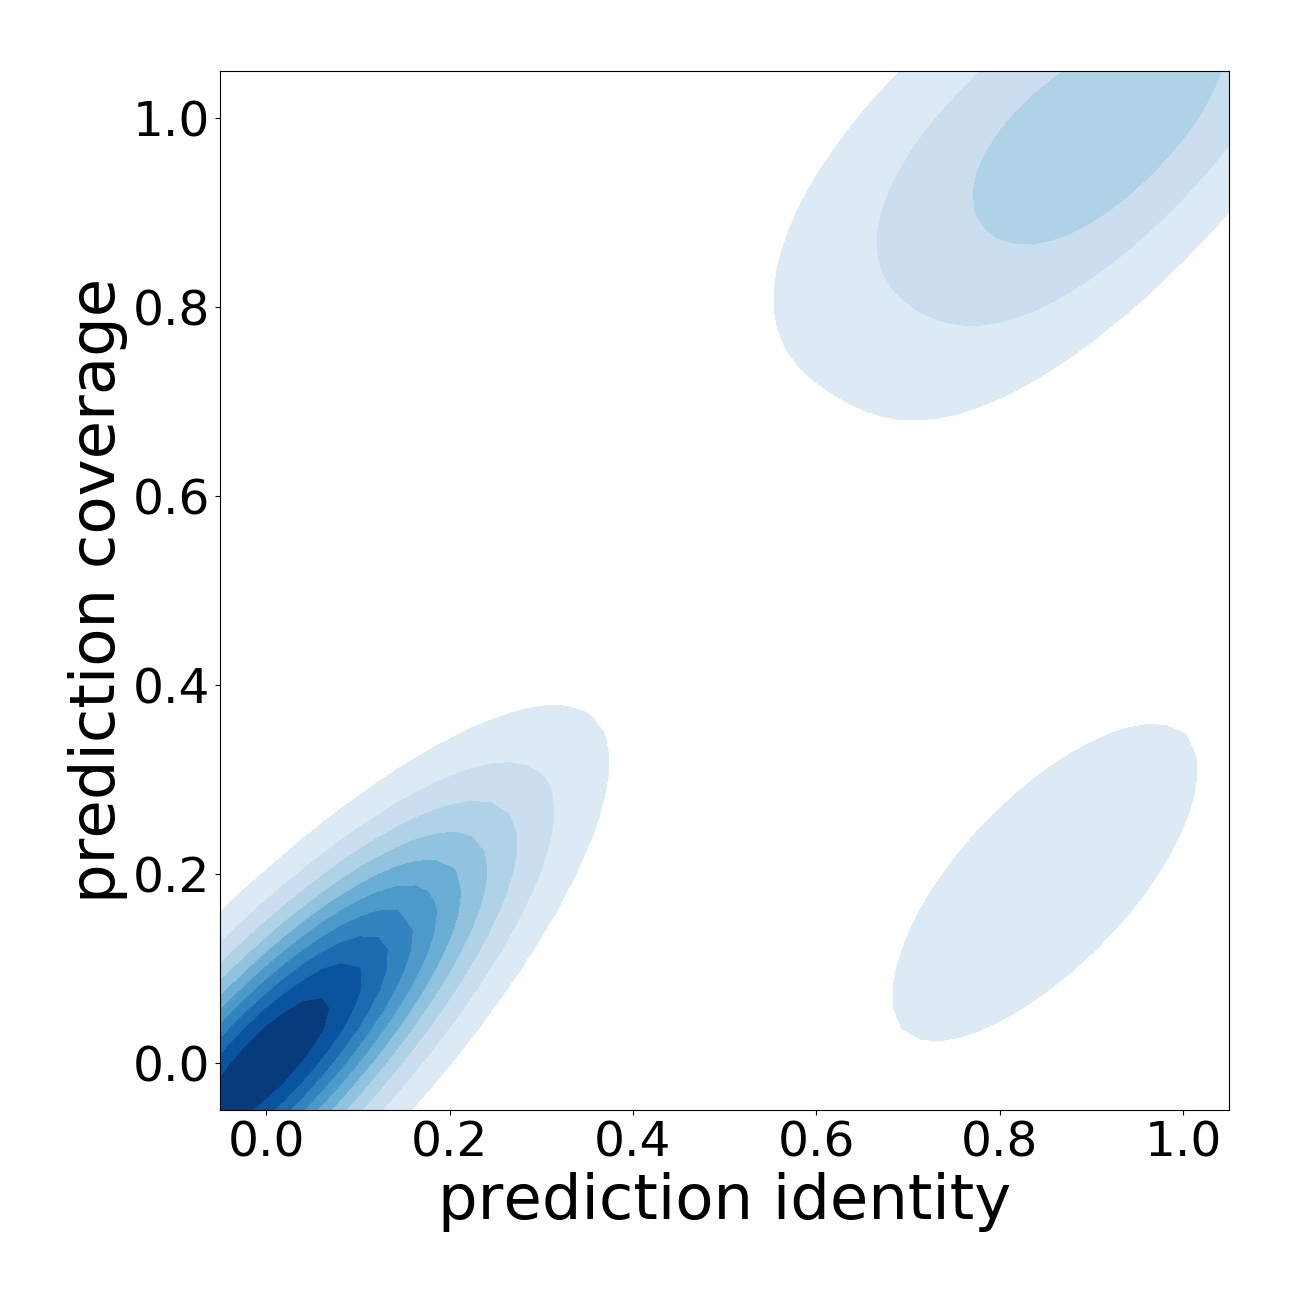
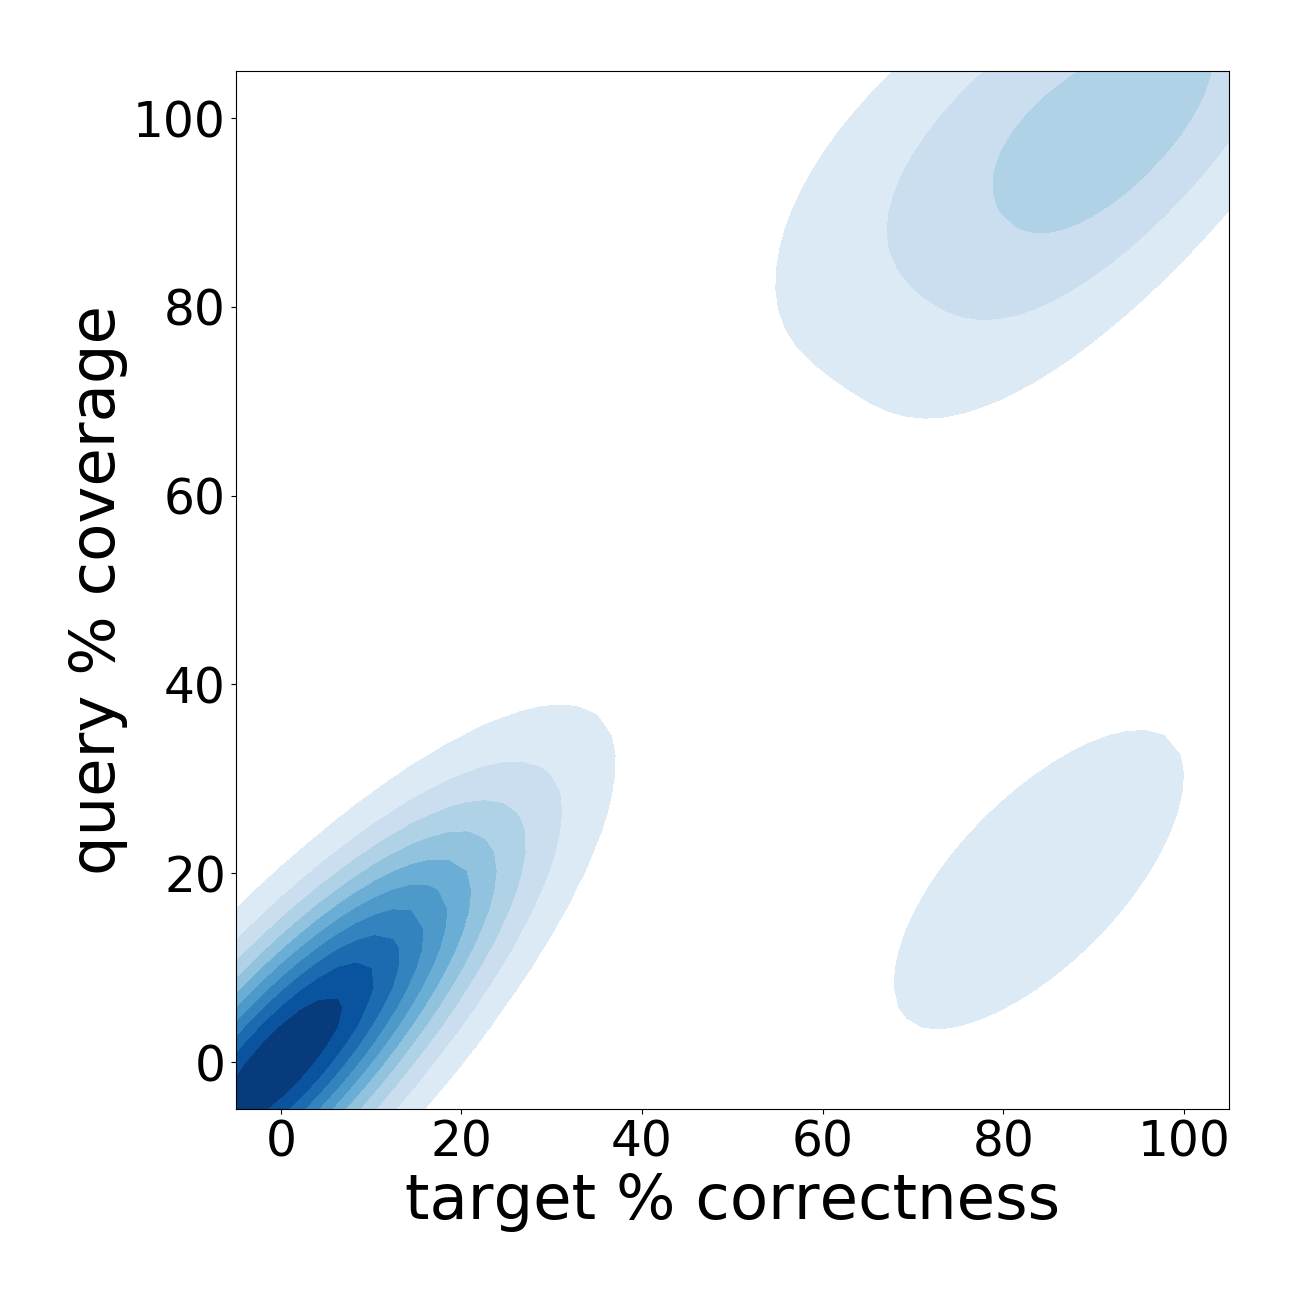
Revise figures

diff --git a/src/app/helper_scripts/data_crunching/wrangle_csv.py b/src/app/helper_scripts/data_crunching/wrangle_csv.py
@@ -5,6 +5,8 @@ import numpy as np
 import pandas as pd
 import seaborn as sns
 
+import utils.directory_utils as utils
+
 correctness_threshold = 0.7
 distance_threshold = 20
 prediction_length = 750
@@ -17,7 +19,7 @@ else:
     base_path = "/home/echen/Desktop/Projects/Sealer_NN/src/app/helper_scripts/data_crunching/"
 
 def evaluate_gap(df, predict_from_left):
-    gap_coverage = []
+    query_coverage = []
     is_pass = []
     for i in range(len(df)):
         row = df.loc[i]
@@ -27,7 +29,7 @@ def evaluate_gap(df, predict_from_left):
         gap_start = row["query_start_gap"]
         gap_end = row["query_end_gap"]
         if np.isnan(gap_start) or np.isnan(gap_end):
-            gap_coverage.append(0)
+            query_coverage.append(0)
             is_pass.append(0)
             continue
 
@@ -44,19 +46,23 @@ def evaluate_gap(df, predict_from_left):
         coverage = prediction_bases/prediction_length_considered
 
         preliminary_pass = 1 if row.flank_correctness >= correctness_threshold else 0
-        gap_coverage.append(coverage)
+        query_coverage.append(coverage)
         is_pass.append(preliminary_pass)
-    coverage = pd.Series(data=np.array(gap_coverage))
+    coverage = pd.Series(data=np.array(query_coverage))
     gap_pass = pd.Series(data=np.array(is_pass))
     return coverage, gap_pass
 
 def transform_dataframe(df, predict_from_left):
     df['total_percent_id_gap'] = (df.matches_gap/df.total_length_gap).fillna(0)
+    df['target_gap_coverage'] = (df.target_alignment_length_gap/df.total_length_gap).fillna(0)
+    df['target_gap_correctness'] = (df.total_percent_id_gap * df.target_gap_coverage).fillna(0)
+
     df['total_percent_id_flank'] = (df.matches_flank/df.total_length_flank).fillna(0)
     df['flank_coverage'] = (df.target_alignment_length_flank/df.target_length_flank).fillna(0)
     df['flank_correctness'] = df.total_percent_id_flank * df.flank_coverage
     gap_coverage, gap_pass = evaluate_gap(df, predict_from_left)
-    df['gap_coverage'] = gap_coverage.fillna(0)
+
+    df['query_gap_coverage'] = gap_coverage.fillna(0)
     df['gap_pass'] = gap_pass
 
 def plot_comparison_scatter(data, file_path):
@@ -71,12 +77,38 @@ def plot_comparison_scatter(data, file_path):
 
     plt.figure(figsize=figure_dimensions)
 
-    points = plt.scatter(data["total_percent_id_gap"], data["total_percent_id"], s=200)
+    points = plt.scatter(data["target_gap_correctness"] * 100, data["target_correctness"] * 100, s=200)
 
-    plt.xlim((-0.05, 1.05))
-    plt.ylim((-0.05, 1.05))
-    plt.xlabel('GapPredict identity')
-    plt.ylabel('Sealer identity')
+    plt.xlim((-5, 105))
+    plt.ylim((-5, 105))
+    plt.xlabel('GapPredict % correctness')
+    plt.ylabel('Sealer % correctness')
+
+    plt.tight_layout()
+    fig = plt.savefig(file_path)
+    plt.close(fig)
+
+def plot_comparison_contour(data, file_path):
+    plt.rc('xtick', labelsize=secondary_text_font_size)
+    plt.rc('ytick', labelsize=secondary_text_font_size)
+    font = {
+        'size': primary_text_font_size
+    }
+    plt.rc('font', **font)
+
+    figure_dimensions=(13, 13)
+
+    plt.figure(figsize=figure_dimensions)
+
+    x = data["target_gap_correctness"] * 100
+    y = data["target_correctness"] * 100
+
+    sns.kdeplot(x, y, cmap="Blues", shade=True, shade_lowest=False)
+
+    plt.xlim((-5, 105))
+    plt.ylim((-5, 105))
+    plt.xlabel('GapPredict % correctness')
+    plt.ylabel('Sealer % correctness')
 
     plt.tight_layout()
     fig = plt.savefig(file_path)
@@ -95,15 +127,16 @@ def plot_scatter(data, file_path):
 
     plt.figure(figsize=figure_dimensions)
 
-    points = plt.scatter(data["total_percent_id_gap"], data["gap_coverage"], c=data["log-sum-probability"], alpha=0.8, s=200, cmap="Spectral")
+    points = plt.scatter(data["target_gap_correctness"]*100, data["query_gap_coverage"]*100, c=data["log-sum-probability"], alpha=0.8, s=200, cmap="Spectral")
     cbar = plt.colorbar(points, fraction=0.046, pad=0.04)
     cbar.ax.tick_params(labelsize=cbar_text_font_size)
+    cbar.set_label("log-sum probability")
 
     plt.clim(0, -750)
-    plt.xlim((-0.05, 1.05))
-    plt.ylim((-0.05, 1.05))
-    plt.xlabel('prediction identity')
-    plt.ylabel('prediction coverage')
+    plt.xlim((-5, 105))
+    plt.ylim((-5, 105))
+    plt.xlabel('target % correctness')
+    plt.ylabel('query % coverage')
 
     plt.tight_layout()
     fig = plt.savefig(file_path)
@@ -121,47 +154,27 @@ def plot_contour(data, file_path):
 
     plt.figure(figsize=figure_dimensions)
 
-    x = data["total_percent_id_gap"]
-    y = data["gap_coverage"]
+    x = data["target_gap_correctness"]*100
+    y = data["query_gap_coverage"]*100
 
     sns.kdeplot(x, y, cmap="Blues", shade=True, shade_lowest=False)
 
-    plt.xlim((-0.05, 1.05))
-    plt.ylim((-0.05, 1.05))
-    plt.xlabel('prediction identity')
-    plt.ylabel('prediction coverage')
+    plt.xlim((-5, 105))
+    plt.ylim((-5, 105))
+    plt.xlabel('target % correctness')
+    plt.ylabel('query % coverage')
 
     plt.tight_layout()
     fig = plt.savefig(file_path)
     plt.close(fig)
 
-
-# def plot_hist(data, file_path):
-#     plt.rc('xtick', labelsize=secondary_text_font_size)
-#     plt.rc('ytick', labelsize=secondary_text_font_size)
-#     font = {
-#         'size': primary_text_font_size
-#     }
-#     plt.rc('font', **font)
-#
-#     figure_dimensions=(13, 13)
-#
-#     plt.figure(figsize=figure_dimensions)
-#
-#     plt.hist(data['target_length_gap'], range=(0, 1500), bins=30)
-#
-#     plt.xlabel('gap length')
-#     plt.ylabel('frequency')
-#
-#     plt.tight_layout()
-#     fig = plt.savefig(file_path)
-#     plt.close(fig)
-
 def transform_sealer_dataframe(df):
     df['total_percent_id'] = (df.matches/df.total_length).fillna(0)
+    df['coverage'] = (df.target_alignment_length/df.target_length).fillna(0)
+    df['target_correctness'] = (df.total_percent_id * df.coverage).fillna(0)
 
 def clean_sealer_dataframe(df):
-    df['total_percent_id'] = df.total_percent_id.fillna(0)
+    df['target_correctness'] = df.target_correctness.fillna(0)
 
 def compute_metrics(gap_left, gap_right, left_subflank, right_subflank, id):
     gap_left_df = pd.read_csv(base_path + gap_left, index_col=0)
@@ -188,7 +201,7 @@ def compute_metrics(gap_left, gap_right, left_subflank, right_subflank, id):
     transform_dataframe(gap_left_full_df, True)
     transform_dataframe(gap_right_full_df, False)
 
-    columns_to_select = ['gap_id', 'is_fixed', 'flank_correctness', 'total_percent_id_gap', 'gap_coverage', 'gap_pass', 'log-sum-probability']
+    columns_to_select = ['gap_id', 'is_fixed', 'flank_correctness', 'target_gap_correctness', 'query_gap_coverage', 'gap_pass', 'log-sum-probability']
     full_dataframe = gap_left_full_df.append(gap_right_full_df, ignore_index=True)
     columns_to_plot = full_dataframe[columns_to_select]
 
@@ -204,7 +217,9 @@ def compute_metrics(gap_left, gap_right, left_subflank, right_subflank, id):
     print("Unfixed Pass = " + str(len(unfixed_pass)) + "/" + str(total_unfixed))
     print("Unfixed Fail = " + str(len(unfixed_fail)) + "/" + str(total_unfixed))
 
-    out_path = "E:\\Users\\Documents\\School Year 18-19\\Term 1\\CPSC 449\\Sealer_NN\\src\\app\\helper_scripts\\data_crunching\\viz\\" + id + "\\"
+    delimiter = utils.get_terminal_directory_character()
+
+    out_path = base_path + "viz" + delimiter + id + delimiter
     os.makedirs(out_path, exist_ok=True)
 
     plot_scatter(fixed_pass, out_path + "fixed_pass.png")
@@ -224,19 +239,15 @@ def compute_metrics(gap_left, gap_right, left_subflank, right_subflank, id):
     fixed_sealer = sealer_df[(sealer_df.is_fixed == 1)]
     unfixed_sealer = sealer_df[(sealer_df.is_fixed == 0)]
 
-    fixed_sealer_merged = pd.merge(fixed, fixed_sealer, on=["gap_id", "is_fixed"], how="left")[['gap_id', 'is_fixed', 'total_percent_id_gap', 'total_percent_id']]
-    unfixed_sealer_merged = pd.merge(unfixed, unfixed_sealer, on=["gap_id", "is_fixed"], how="left")[['gap_id', 'is_fixed', 'total_percent_id_gap', 'total_percent_id']]
+    fixed_sealer_merged = pd.merge(fixed, fixed_sealer, on=["gap_id", "is_fixed"], how="left")[['gap_id', 'is_fixed', 'target_gap_correctness', 'target_correctness']]
+    unfixed_sealer_merged = pd.merge(unfixed, unfixed_sealer, on=["gap_id", "is_fixed"], how="left")[['gap_id', 'is_fixed', 'target_gap_correctness', 'target_correctness']]
     clean_sealer_dataframe(fixed_sealer_merged)
     clean_sealer_dataframe(unfixed_sealer_merged)
 
     plot_comparison_scatter(fixed_sealer_merged, out_path + "fixed_sealer_compare.png")
     plot_comparison_scatter(unfixed_sealer_merged, out_path + "unfixed_sealer_compare.png")
-
-    # successful = full_dataframe[(full_dataframe.gap_pass == 1) & (full_dataframe.total_percent_id_gap >= 0.9) & (full_dataframe.gap_coverage >= 0.9)]
-    # unsuccessful = full_dataframe[(full_dataframe.gap_pass != 1) | (full_dataframe.total_percent_id_gap < 0.9) | (full_dataframe.gap_coverage < 0.9)]
-    #
-    # plot_hist(successful, out_path + "successful_hist.png")
-    # plot_hist(unsuccessful, out_path + "unsuccessful_hist.png")
+    plot_comparison_contour(fixed_sealer_merged, out_path + "fixed_sealer_compare_contour.png")
+    plot_comparison_contour(unfixed_sealer_merged, out_path + "unfixed_sealer_compare_contour.png")
 
 print("Beam Search")
 compute_metrics("gap_left_prediction_data.csv", "gap_right_prediction_data.csv", "left_subflank_right_prediction_data.csv", "right_subflank_left_prediction_data.csv", "beam_search")

diff --git a/src/app/helper_scripts/data_crunching/wrangle_sealer.py b/src/app/helper_scripts/data_crunching/wrangle_sealer.py
@@ -5,6 +5,8 @@ import numpy as np
 import pandas as pd
 import seaborn as sns
 
+import utils.directory_utils as utils
+
 if os.name == 'nt':
     base_path = "E:\\Users\\Documents\\School Year 18-19\\Term 1\\CPSC 449\\Sealer_NN\\src\\app\\helper_scripts\\data_crunching\\"
 else:
@@ -13,14 +15,13 @@ else:
 def transform_dataframe(df):
     df['total_percent_id'] = (df.matches/df.total_length).fillna(0)
     df['coverage'] = (df.target_alignment_length/df.target_length).fillna(0)
+    df['target_correctness'] = (df.total_percent_id * df.coverage * 100).fillna(0)
 
-def clean_dataframe(df):
-    df['total_percent_id'] = df.total_percent_id.fillna(0)
-    df['coverage'] = df.coverage.fillna(0)
-
-def plot_scatter(data, file_path):
+def plot_box(data, file_path):
     primary_text_font_size = 45
     secondary_text_font_size = 35
+    linewidth = 6
+    rotation = 45
     plt.rc('xtick', labelsize=secondary_text_font_size)
     plt.rc('ytick', labelsize=secondary_text_font_size)
     font = {
@@ -32,11 +33,17 @@ def plot_scatter(data, file_path):
 
     plt.figure(figsize=figure_dimensions)
 
-    ax = sns.scatterplot(x="total_percent_id", y="coverage", data=data, s=200)
-    plt.xlim((-0.05, 1.05))
-    plt.ylim((-0.05, 1.05))
-    plt.xlabel('prediction identity')
-    plt.ylabel('prediction coverage')
+    flierprops = {
+        'markersize': 10,
+        'markerfacecolor': 'red',
+        'marker': 'o'
+    }
+
+    ax = sns.boxplot(data=data, x="fixed_status", y="target_correctness", linewidth=linewidth, flierprops=flierprops)
+    ax.set_xticklabels(ax.get_xticklabels(), rotation=rotation)
+    plt.ylim((-5, 100))
+    plt.xlabel('filled_with_all_reads')
+    plt.ylabel('target % correctness')
 
     plt.tight_layout()
     fig = plt.savefig(file_path)
@@ -47,20 +54,24 @@ gap_fill_df = pd.read_csv(base_path + "gap_left_prediction_data.csv", index_col=
 
 transform_dataframe(sealer_df)
 
-columns_to_select = ['gap_id', 'is_fixed', 'total_percent_id', 'coverage']
+columns_to_select = ['gap_id', 'is_fixed', 'target_correctness']
 columns_to_plot = sealer_df[columns_to_select]
 
 fixed = columns_to_plot[(columns_to_plot.is_fixed == 1)]
 unfixed = columns_to_plot[(columns_to_plot.is_fixed == 0)]
-joined_fixed = pd.merge(fixed, gap_fill_df, on=["gap_id", "is_fixed"], how="right") #TODO: maybe do an outer join to get the ones that didn't make it into sealer
+joined_fixed = pd.merge(fixed, gap_fill_df, on=["gap_id", "is_fixed"], how="right")
+joined_fixed = joined_fixed[~np.isnan(joined_fixed.target_correctness)]
+joined_fixed["fixed_status"] = "filled"
 joined_unfixed = pd.merge(unfixed, gap_fill_df, on=["gap_id", "is_fixed"], how="right")
-clean_dataframe(joined_fixed)
-clean_dataframe(joined_unfixed)
+joined_unfixed = joined_unfixed[~np.isnan(joined_unfixed.target_correctness)]
+joined_unfixed["fixed_status"] = "unfilled"
+full_data = joined_fixed.append(joined_unfixed, ignore_index=True)
 
-out_path = "E:\\Users\\Documents\\School Year 18-19\\Term 1\\CPSC 449\\Sealer_NN\\src\\app\\helper_scripts\\data_crunching\\viz\\sealer\\"
+delimiter = utils.get_terminal_directory_character()
+
+out_path = base_path + "viz" + delimiter + "sealer" + delimiter
 os.makedirs(out_path, exist_ok=True)
 
-plot_scatter(joined_fixed, out_path + "sealer_fixed.png")
+plot_box(full_data, out_path + "sealer.png")
 print("Fixed = " + str(len(joined_fixed)))
-plot_scatter(joined_unfixed, out_path + "sealer_unfixed.png")
 print("Unfixed = " + str(len(joined_unfixed)))
